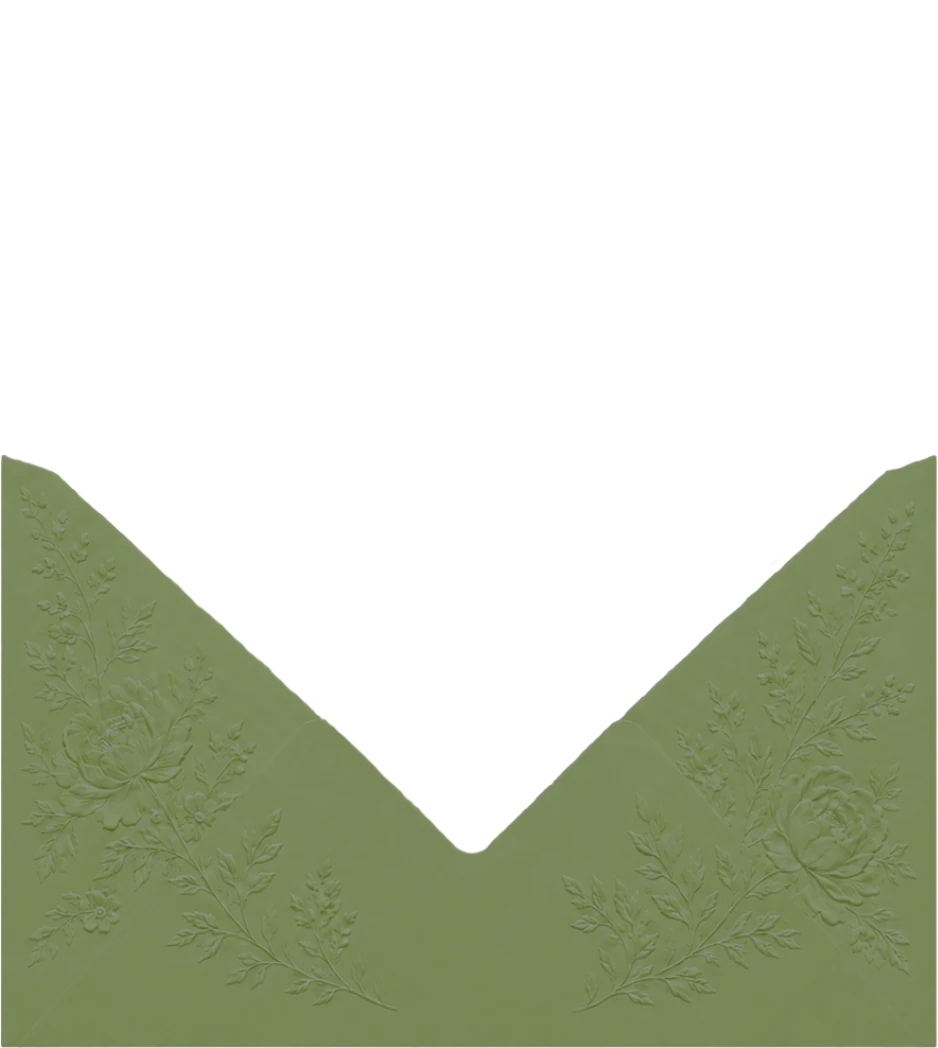
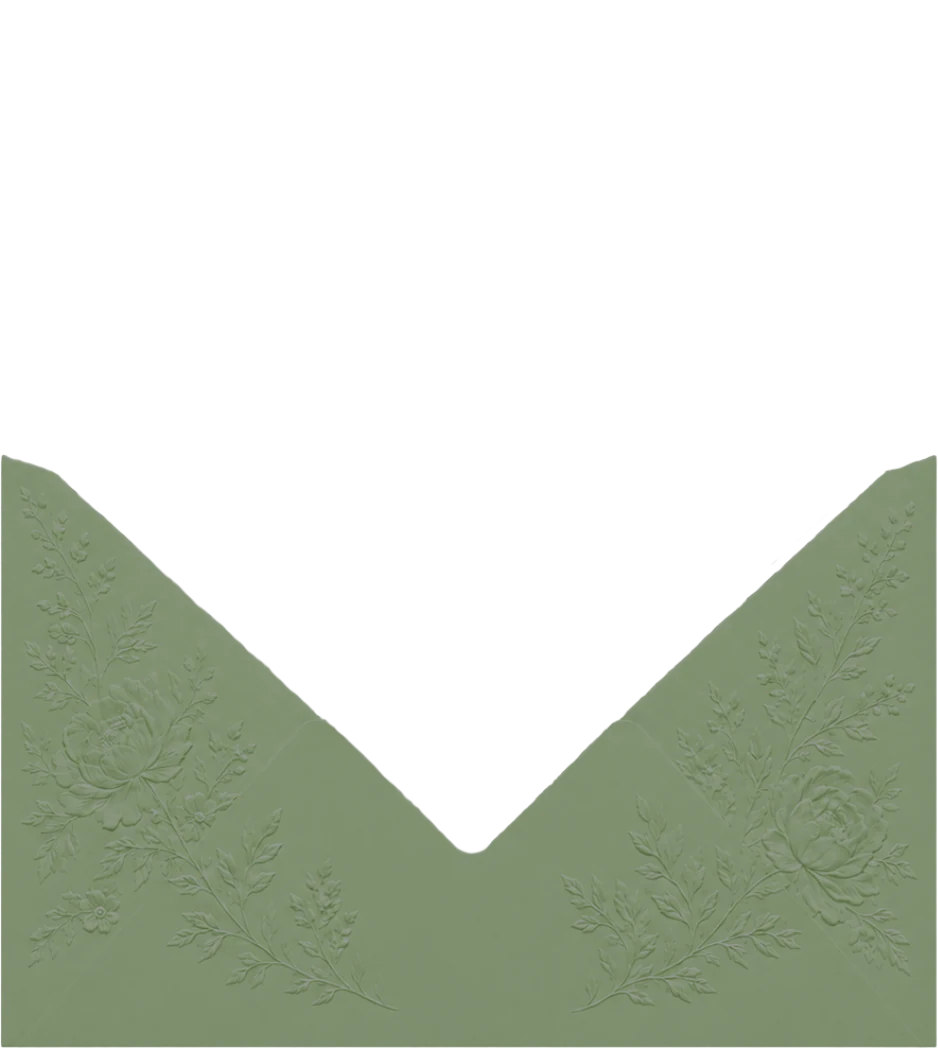
Set the envelope to #819171
Derived the transform from the source and target colours rather than
guessing at it: the blush body is H 7deg / S 0.215 / V 0.949 and the
requested olive-sage is H 90deg / S 0.221 / V 0.569, so hue 90, saturation
x1.027, value x0.599. Re-run from the blush originals as before.

Lands on #819172 — a unit off the request, from rounding in the 8-bit HSV
round-trip.

Bump the envelope URLs to ?v=5.

The hint stays white: at this value white and ink are near enough to level
(3.37:1 vs 3.35:1) and white keeps it consistent with the shadow already
behind it.

diff --git a/css/save-the-date.css b/css/save-the-date.css
@@ -204,16 +204,16 @@ body.is-ready .petals { opacity: 1; }
    move it up to .stage, which owns the perspective. */
 .env__back  {
   z-index: 1;
-  background-image: image-set(url(../assets/env-back.webp?v=4)  type("image/webp"), url(../assets/env-back.png?v=4)  type("image/png"));
+  background-image: image-set(url(../assets/env-back.webp?v=5)  type("image/webp"), url(../assets/env-back.png?v=5)  type("image/png"));
   filter: drop-shadow(0 7px 14px rgba(84, 64, 58, 0.26));
 }
-.env__front { z-index: 3; background-image: image-set(url(../assets/env-front.webp?v=4) type("image/webp"), url(../assets/env-front.png?v=4) type("image/png")); }
+.env__front { z-index: 3; background-image: image-set(url(../assets/env-front.webp?v=5) type("image/webp"), url(../assets/env-front.png?v=5) type("image/png")); }
 
 /* The flap is authored in the OPEN (up) position; flipped down about its hinge
    (y≈43.4% of the piece) it covers the pocket = closed. One image, both faces. */
 .env__flap {
   z-index: 4;
-  background-image: image-set(url(../assets/env-flap.webp?v=4) type("image/webp"), url(../assets/env-flap.png?v=4) type("image/png"));
+  background-image: image-set(url(../assets/env-flap.webp?v=5) type("image/webp"), url(../assets/env-flap.png?v=5) type("image/png"));
   transform-origin: 50% 43.4%;
   /* the translateY is identity here, but it keeps the function list the same in
      all three states (closed / open / sliding) so each transition interpolates

diff --git a/save-the-date.html b/save-the-date.html
@@ -41,7 +41,7 @@
   <!-- Bespoke save-the-date theme (mirrors the locked sage + blush palette).
        The ?v= query is a cache buster — bump it whenever the CSS or JS changes so
        browsers pick the new file up without a hard refresh. -->
-  <link rel="stylesheet" href="css/save-the-date.css?v=35" />
+  <link rel="stylesheet" href="css/save-the-date.css?v=36" />
 
   <!-- No-JS fallback: hide the envelope pieces so the sandwiched letter shows. -->
   <noscript>

diff --git a/README.md b/README.md
@@ -177,7 +177,7 @@ Until then, treat any "submitted" RSVP as **not recorded**.
   cropped to a shared coordinate space and compressed for the web. No third-party
   license applies.
 
-  They were supplied in **blush** and have been **recoloured to a deep olive** (~`#7a895b`).
+  They were supplied in **blush** and have been **recoloured to a muted olive-sage** (`#819171`).
   The embossing is carried entirely in luminance, so the recolour pins the hue and
   rescales saturation and value, leaving every petal and fern untouched. The blush
   originals are in git history if they're ever wanted back. The envelope URLs carry
